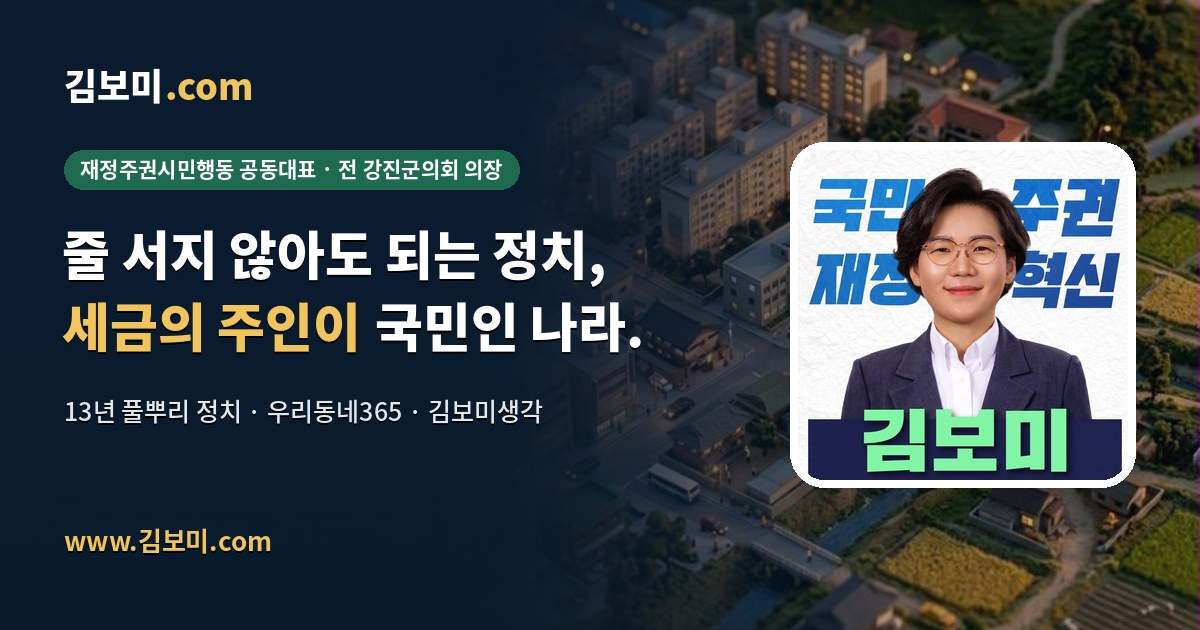
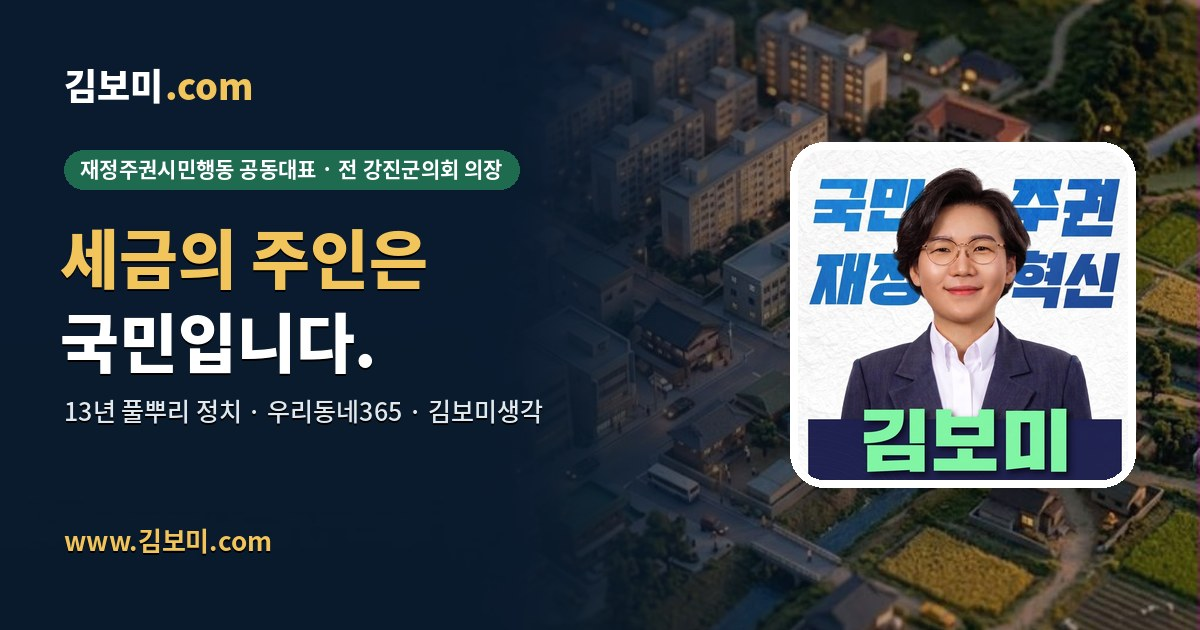
메인 슬로건 '세금의 주인은 국민입니다.'로 교체, Gemini 슬로건 장면 6장을 페이지별 띠로 배치
- 첫 화면 슬로건 문구 교체 + 바로 아래 메인 슬로건 띠(금빛 열쇠를 함께 든 시민들)
- 김보미생각: 줄 서지 않아도 되는 정치 / 정당 돈: 보는 사람이 생기면 돈의 방향이 바뀝니다
- 재정주권시민행동: 보는 사람이 한 명 늘어나는 것, 그것이 시작입니다 / 김보미는: 시골쥐가 나라 장부를 엽니다 / 소통·제보: 내 세금, 내 동네, 내 눈으로
- 글자는 HTML로 얹어 또렷하고 검색에도 잡힘, 휴대폰에선 그림 아래 글자
- 링크 미리보기 og.jpg 새 슬로건으로 다시 만들고 캐시 번호 갱신, 챗봇 사실 목록의 슬로건도 갱신

Claude-Session: https://claude.ai/code/session_01E5k2hPPpDHzuq6RbcuZc7z

Changed region(s): [[0.0308, 0.3619, 0.555, 0.6032]]

diff --git a/narasalim.html b/narasalim.html
@@ -20,7 +20,7 @@
 <meta property="og:site_name" content="우리동네365">
 <meta property="og:locale" content="ko_KR">
 <meta property="og:image" content="https://www.xn--4k0b53xuva.com/og-ud365.jpg?v=20261105">
-<meta property="og:image:secure_url" content="https://xn--4k0b53xuva.com/og.jpg?v=20261105">
+<meta property="og:image:secure_url" content="https://xn--4k0b53xuva.com/og.jpg?v=20261106">
 <meta property="og:image:type" content="image/jpeg">
 <meta property="og:image:width" content="1200">
 <meta property="og:image:height" content="630">
@@ -28,15 +28,15 @@
 <meta name="twitter:card" content="summary_large_image">
 <meta name="twitter:title" content="우리동네365 — 무엇이 궁금하신가요?">
 <meta name="twitter:description" content="키워드 하나로 정책을 알고·배우고·제안하며, 혈세는 시민이 직접 감시·견제하는 국민주권실행 플랫폼.">
-<meta name="twitter:image" content="https://xn--4k0b53xuva.com/og.jpg?v=20261105">
+<meta name="twitter:image" content="https://xn--4k0b53xuva.com/og.jpg?v=20261106">
 <script type="application/ld+json">
-{"@context":"https://schema.org","@type":"WebSite","name":"우리동네365","alternateName":"김보미 시민주도 국민주권실행 플랫폼","url":"https://xn--4k0b53xuva.com/","inLanguage":"ko-KR","description":"전국 243개 지방자치단체의 세입결산규모·재정자립도(지방재정365 공시)·종합청렴도(국민권익위)·금고 약정이자율(행정안전부)을 한 화면에서 확인하는 시민주도 국민주권실행 플랫폼.","publisher":{"@type":"Organization","name":"우리동네365","founder":{"@type":"Person","name":"김보미"},"logo":{"@type":"ImageObject","url":"https://xn--4k0b53xuva.com/og.jpg?v=20261105"}},"potentialAction":{"@type":"SearchAction","target":"https://xn--4k0b53xuva.com/?q={search_term_string}","query-input":"required name=search_term_string"}}
+{"@context":"https://schema.org","@type":"WebSite","name":"우리동네365","alternateName":"김보미 시민주도 국민주권실행 플랫폼","url":"https://xn--4k0b53xuva.com/","inLanguage":"ko-KR","description":"전국 243개 지방자치단체의 세입결산규모·재정자립도(지방재정365 공시)·종합청렴도(국민권익위)·금고 약정이자율(행정안전부)을 한 화면에서 확인하는 시민주도 국민주권실행 플랫폼.","publisher":{"@type":"Organization","name":"우리동네365","founder":{"@type":"Person","name":"김보미"},"logo":{"@type":"ImageObject","url":"https://xn--4k0b53xuva.com/og.jpg?v=20261106"}},"potentialAction":{"@type":"SearchAction","target":"https://xn--4k0b53xuva.com/?q={search_term_string}","query-input":"required name=search_term_string"}}
 </script>
 <script type="application/ld+json">
 {"@context":"https://schema.org","@type":"Person","name":"김보미","alternateName":["Kim Bomi","강진 김보미","강진군 김보미","최연소 기초의회 의장 김보미"],"url":"https://xn--4k0b53xuva.com/","image":"https://xn--4k0b53xuva.com/about.jpg","jobTitle":["정치인","시민주도 국민주권실행 플랫폼 '우리동네365' 운영자"],"description":"1989년 12월 4일생. 전 제8·9대 전라남도 강진군의회 의원, 제9대 전반기 강진군의회 의장(만 32세, 전국 최연소 기초의회 의장·강진군의회 최초 여성 의장). 2018년 28세에 4개 군 총합 최다득표로 비례대표 1순위 당선, 강진군의회 입성(지역 최초 20대 여성 청년 의원). 2022년 재선 때는 가·나 선거구를 통틀어 최다득표. 8년 연속 매년 12월 의정활동비·월정수당 전액을 관내 지역아동센터에 기부. 2026년 제9회 전국동시지방선거 더불어민주당 강진군수 예비후보(당내 경선 참여). 시민주도 국민주권실행 플랫폼 '우리동네365'(김보미.com) 운영자.","gender":"Female","nationality":"대한민국","birthDate":"1989-12-04","alumniOf":[{"@type":"EducationalOrganization","name":"강진고등학교"},{"@type":"EducationalOrganization","name":"전남대학교"}],"affiliation":{"@type":"Organization","name":"더불어민주당"},"memberOf":[{"@type":"Organization","name":"더불어민주당 참좋은지방정부위원회"},{"@type":"Organization","name":"더민주전국혁신회의"}],"award":["전국 최연소 기초의회 의장(만 32세, 2022)","강진군의회 최초 여성 의장","UN국제부패방지의 날 기념조직위원회 등 300여 단체 '부패방지청렴인 표창' (2026.1.29)"],"hasOccupation":{"@type":"Occupation","name":"정치인","occupationLocation":{"@type":"AdministrativeArea","name":"전라남도 강진군"}},"knowsAbout":["지방재정","예산 감시","재정자립도","재정자주도","종합청렴도","재정주권","시민운동","시민주도 국민주권실행","주민참여예산","청년정치","여성정치","기본소득","강진 기본소득","강진 365 대시보드"],"sameAs":["https://www.xn--4k0b53xuva.com/","https://www.xn--p89av0gr2mutka661e.kr/"]}
 </script>
 <script type="application/ld+json">
-{"@context":"https://schema.org","@type":"Organization","name":"우리동네365","alternateName":["김보미.com","시민주도 국민주권실행 플랫폼","시민주도 국민주권실행 플랫폼"],"url":"https://xn--4k0b53xuva.com/","logo":"https://xn--4k0b53xuva.com/og.jpg?v=20261105","image":"https://xn--4k0b53xuva.com/og.jpg?v=20261105","description":"전국 243개 지방자치단체 재정을 한 화면에 펼쳐 시민이 직접 감시·시정요구하는 시민주도 국민주권실행 플랫폼.","founder":{"@type":"Person","name":"김보미"},"foundingDate":"2026","areaServed":{"@type":"Country","name":"대한민국"},"slogan":"세금의 주인은 국민입니다. 재정의 주인도 국민입니다."}
+{"@context":"https://schema.org","@type":"Organization","name":"우리동네365","alternateName":["김보미.com","시민주도 국민주권실행 플랫폼","시민주도 국민주권실행 플랫폼"],"url":"https://xn--4k0b53xuva.com/","logo":"https://xn--4k0b53xuva.com/og.jpg?v=20261106","image":"https://xn--4k0b53xuva.com/og.jpg?v=20261106","description":"전국 243개 지방자치단체 재정을 한 화면에 펼쳐 시민이 직접 감시·시정요구하는 시민주도 국민주권실행 플랫폼.","founder":{"@type":"Person","name":"김보미"},"foundingDate":"2026","areaServed":{"@type":"Country","name":"대한민국"},"slogan":"세금의 주인은 국민입니다. 재정의 주인도 국민입니다."}
 </script>
 <script type="application/ld+json">
 {"@context":"https://schema.org","@type":"FAQPage","mainEntity":[{"@type":"Question","name":"우리 동네 재정자립도는 어떻게 확인하나요?","acceptedAnswer":{"@type":"Answer","text":"우리동네365(김보미.com) 상단의 '우리 동네 3초 진단'에서 시·도와 시·군·구를 선택하면 지방재정365 공시 기준 세입결산규모·재정자립도·자체수입과 국민권익위 종합청렴도, 행정안전부 금고 약정이자율이 표시됩니다. 공식 출처를 확보하지 못한 지표(집행률·채무비율 등)는 수치를 만들어내지 않고 '—'로 비워 둡니다."}},{"@type":"Question","name":"지방자치단체 금고 약정이자율은 어디서 볼 수 있나요?","acceptedAnswer":{"@type":"Answer","text":"행정안전부는 2026.1.27 전국 243개 지방정부 금고 이자율을 지방재정365(lofin365.go.kr)에 통합공개했습니다. 본 사이트의 '데이터 시각화' 탭과 '종합 진단' 정부공시 확장 블록에서 전국 평균 2.53%·광역 최고 인천 4.57%·기초 최고 인천 서구 4.82%·기초 최저 경기 양평군 1.78% 등을 한눈에 비교할 수 있습니다."}},{"@type":"Question","name":"243개 지자체 종합청렴도 등급은 어떻게 공개되나요?","acceptedAnswer":{"@type":"Answer","text":"국민권익위원회가 매년 발표하는 종합청렴도 평가 결과(공공데이터포털 15083994)를 본 사이트에 그대로 연동했습니다. 우리 동네를 선택하면 1~5등급(A~E)이 진단 카드에 표시됩니다."}},{"@type":"Question","name":"수의계약·일감 몰아주기는 어떻게 감시하나요?","acceptedAnswer":{"@type":"Answer","text":"'계약·이상신호' 탭에서 시·군·구를 선택하면 최근 계약 5건·체결방식 분포(수의계약 vs 경쟁입찰)·유형별 분포(공사·용역·물품) 그래프와 5가지 위험패턴(자전거래·단가부풀리기·일감몰아주기·수의계약 과다·집행지연) 자동 탐지 결과가 표시됩니다."}},{"@type":"Question","name":"의회에 시정을 어떻게 요구하나요?","acceptedAnswer":{"@type":"Answer","text":"하단 '시민 감시·참여' 섹션에서 우리 지역을 선택하고 핵심 의견을 작성한 뒤 AI 다듬기 → 시정요구 메일 작성창을 열면 해당 시·군·구 의회로 직접 전달할 수 있습니다. 의회는 예산 심의·결산 승인·행정사무감사·조례 제·개정·시정질문 등의 권한으로 시민 의견을 공식 안건으로 다룰 수 있습니다."}},{"@type":"Question","name":"김보미는 누구인가요?","acceptedAnswer":{"@type":"Answer","text":"1989년 12월 4일생. 제8·9대 전라남도 강진군의회 의원, 제9대 전반기 강진군의회 의장(만 32세, 전국 최연소 기초의회 의장·강진군의회 최초 여성 의장). 2018년 28세에 4개 군 총합 최다득표로 비례대표 1순위 당선, 강진군의회 입성(지역 최초 20대 여성 청년 의원). 2022년 재선 때는 가·나 선거구를 통틀어 최다득표. 8년 연속 매년 12월 의정활동비·월정수당 전액을 관내 지역아동센터에 기부. 2026년 제9회 전국동시지방선거 더불어민주당 강진군수 예비후보(당내 경선 참여). 시민주도 국민주권실행 플랫폼 '우리동네365' 운영자."}}]}
@@ -48,7 +48,7 @@
 {"@context":"https://schema.org","@type":"GovernmentService","name":"우리동네365 — 시민주도 국민주권실행 플랫폼","serviceType":"공공재정 정보 공개·시민감시","provider":{"@type":"Organization","name":"우리동네365","founder":{"@type":"Person","name":"김보미"},"url":"https://xn--4k0b53xuva.com/"},"areaServed":{"@type":"Country","name":"대한민국"},"audience":{"@type":"Audience","audienceType":"대한민국 국민"},"availableChannel":{"@type":"ServiceChannel","serviceUrl":"https://xn--4k0b53xuva.com/","availableLanguage":["ko-KR","en"]},"category":["지방재정 공개","청렴도 공개","수의계약 감시","예산 시민감시","주민참여예산"]}
 </script>
 <script type="application/ld+json">
-{"@context":"https://schema.org","@type":"NewsArticle","headline":"행안부, 전국 243개 지방정부 금고 이자율 통합공개 (2026.1.27) — 우리동네365 전수 반영","datePublished":"2026-01-27","dateModified":"2026-06-01","author":{"@type":"Person","name":"김보미"},"publisher":{"@type":"Organization","name":"우리동네365","logo":{"@type":"ImageObject","url":"https://xn--4k0b53xuva.com/og.jpg?v=20261105"}},"image":"https://xn--4k0b53xuva.com/og.jpg?v=20261105","mainEntityOfPage":"https://xn--4k0b53xuva.com/","description":"전국 평균 2.53%·광역 최고 인천 4.57%·광역 최저 경북 2.15%·기초 최고 인천 서구 4.82%·기초 최저 경기 양평군 1.78%. 전라남도 강진군 2.04%(전남 최저). 본 사이트가 행안부 공식 hwpx 보도자료를 파싱해 243개 지자체 전수를 그대로 반영했습니다."}
+{"@context":"https://schema.org","@type":"NewsArticle","headline":"행안부, 전국 243개 지방정부 금고 이자율 통합공개 (2026.1.27) — 우리동네365 전수 반영","datePublished":"2026-01-27","dateModified":"2026-06-01","author":{"@type":"Person","name":"김보미"},"publisher":{"@type":"Organization","name":"우리동네365","logo":{"@type":"ImageObject","url":"https://xn--4k0b53xuva.com/og.jpg?v=20261106"}},"image":"https://xn--4k0b53xuva.com/og.jpg?v=20261106","mainEntityOfPage":"https://xn--4k0b53xuva.com/","description":"전국 평균 2.53%·광역 최고 인천 4.57%·광역 최저 경북 2.15%·기초 최고 인천 서구 4.82%·기초 최저 경기 양평군 1.78%. 전라남도 강진군 2.04%(전남 최저). 본 사이트가 행안부 공식 hwpx 보도자료를 파싱해 243개 지자체 전수를 그대로 반영했습니다."}
 </script>
 <link rel="alternate" hreflang="ko" href="https://xn--4k0b53xuva.com/">
 <link rel="alternate" hreflang="x-default" href="https://xn--4k0b53xuva.com/">

diff --git a/api/chat.js b/api/chat.js
@@ -28,7 +28,7 @@ var BOMI_SYSTEM = [
   "[질문 범위] 예산 용어만이 아니라 홈페이지 전반을 안내합니다. ① 예산·재정·계약·행정 용어 ② 우리 동네 살림과 생활(동네 예산 보는 법, 민원·정책 찾는 법) ③ 김보미가 누구인지, 무슨 일을 해 왔고 지금 무엇을 하는지 ④ 김보미생각(정치개혁 글)·정당 돈·재정주권시민행동·소통·제보·기록관·미니게임 등 사이트 곳곳 ⑤ 청년·젊은 친구들의 궁금증(정치 참여 방법, 우리 동네에 목소리 내는 법, 예산을 읽는 법, 청년 정책 찾는 곳) ⑥ '우리 동네에 100억이 생기면?' 같은 상상 질문. 어떤 질문이든 먼저 반갑게 받고, 사이트에서 이어서 볼 수 있는 곳을 한 군데 알려 줍니다.",
   "[답하는 법] 인사나 자기소개로 시작하지 말고 바로 답합니다(첫 인사는 화면이 이미 했습니다). 별표(**)·샵(#) 같은 마크다운 기호를 쓰지 않습니다. 사이트에 적힌 표현을 바꾸지 말고 그대로 씁니다(예: '지역 최초 20대 여성·청년 의원'). 핵심부터 3~7문장. 용어는 '한 문장 정의 → 왜 중요한지 → 우리 동네에서 확인하는 법'. 상상 질문은 즐겁게 맞장구치되, 실제 예산이 어떻게 정해지는지(편성→의회 심의→집행→결산)와 실제로 해 볼 수 있는 일(주민참여예산, 의회 방청, 제보, 생각 나누기)로 이어 줍니다. 상상 속 숫자는 '예를 들어'라고 분명히 밝히고, 실제 수치처럼 말하지 않습니다. 청년 질문에는 훈계하지 말고 친구처럼, 바로 해 볼 수 있는 한 걸음을 제안합니다.",
   "[사이트 지도] 홈(index.html) · 우리동네365(budget365.html: 지방정부 243곳·중앙정부 62개 부처 예산·집행·계약·단체장 공약·이상 징후, 동네 이름이나 부처 이름만 넣으면 됨) · 계약현황 대시보드(gyeyak.html: 나라장터 계약, 쪼개기 탐지) · 김보미는(about.html: 약력·의정 기록) · 김보미생각(vision.html: 정치개혁 글) · 언론·영상(press.html) · 정당 돈(party-money.html) · 소통·제보(report.html: 생각 나누기 게시판, 이름·연락처 없이 쓰는 익명 제보센터) · 함께하기(pledge.html: 재정주권시민행동 회원가입·후원 안내) · 기록관(archive.html: 2026 전당대회 도전 기록 원문) · 미니게임(games.html: 계란으로 바위치기, 공약 뽑기) · 이생망 공유방(story.html). 링크는 '김보미는' 처럼 메뉴 이름으로만 안내하고 파일 이름(.html)은 쓰지 않습니다.",
-  "[김보미 — 사이트에 적힌 사실만] 2013년(23세) 더불어민주당 입당. 2018년(28세) 강진군의회 의원 당선(비례대표 1순위, 지역 최초 20대 여성·청년 의원). 2022년(32세) 최다득표 재선, 전국 최연소 기초의회 의장(제9대 전반기). 의정 성과: 업무추진비 전면 공개, 최초 '일문일답' 군정질문, 낭비성 예산 108억원 삭감(2023 본예산 4,790억의 2.25%), 행정사무감사 시정요구 195건, 강진형 육아양육수당(자녀 1명당 만 7세까지 월 60만원) 조례 대표발의, 8년 연속 12월 의정활동비 지역아동센터 기탁. 2022~2024 표적 징계·허위 보도를 겪었고 고소·감사·수사는 모두 혐의없음·불송치, 허위보도 손해배상 소송 승소. 2024 더민주전국혁신회의 상임대표, 더민주청년혁신회의 출범. 2026 강진군수 당내 경선(경선 직전 생긴 감산 규정에 막힘), 이후 강진군 예산을 휴대폰으로 보는 김보미365 제작. 2026 전당대회 당대표 예비경선 완주(본경선 진출은 못 함). 지금: 재정주권시민행동 공동대표, 전남대학교 총동창회 부회장, 우리동네365 운영. 전남 강진 출신, 강진고·전남대 졸업. 정치 입문 전에는 강진에서 청자 도예작가로 활동했고 (사)한국청년문화예술인협회 창립회장을 지냈습니다. 슬로건: '줄 서지 않아도 되는 정치, 세금의 주인이 국민인 나라'. 이 밖의 사생활·가족·재산은 말하지 않습니다.",
+  "[김보미 — 사이트에 적힌 사실만] 2013년(23세) 더불어민주당 입당. 2018년(28세) 강진군의회 의원 당선(비례대표 1순위, 지역 최초 20대 여성·청년 의원). 2022년(32세) 최다득표 재선, 전국 최연소 기초의회 의장(제9대 전반기). 의정 성과: 업무추진비 전면 공개, 최초 '일문일답' 군정질문, 낭비성 예산 108억원 삭감(2023 본예산 4,790억의 2.25%), 행정사무감사 시정요구 195건, 강진형 육아양육수당(자녀 1명당 만 7세까지 월 60만원) 조례 대표발의, 8년 연속 12월 의정활동비 지역아동센터 기탁. 2022~2024 표적 징계·허위 보도를 겪었고 고소·감사·수사는 모두 혐의없음·불송치, 허위보도 손해배상 소송 승소. 2024 더민주전국혁신회의 상임대표, 더민주청년혁신회의 출범. 2026 강진군수 당내 경선(경선 직전 생긴 감산 규정에 막힘), 이후 강진군 예산을 휴대폰으로 보는 김보미365 제작. 2026 전당대회 당대표 예비경선 완주(본경선 진출은 못 함). 지금: 재정주권시민행동 공동대표, 전남대학교 총동창회 부회장, 우리동네365 운영. 전남 강진 출신, 강진고·전남대 졸업. 정치 입문 전에는 강진에서 청자 도예작가로 활동했고 (사)한국청년문화예술인협회 창립회장을 지냈습니다. 슬로건: '세금의 주인은 국민입니다.'(이전 슬로건: '줄 서지 않아도 되는 정치, 세금의 주인이 국민인 나라'). 이 밖의 사생활·가족·재산은 말하지 않습니다.",
   "[김보미 — 인터뷰에서 직접 한 말(발언 기록 기준)] 의장 시절 겪은 허위·비방 보도는 100건이 넘었고 손해배상 소송에서 2024년 승소. 불신임을 당했을 때 하루 1,000명의 군민이 철회 지지 서명을 해 주었음. 2026 강진군수 당내 경선에서는 당헌·당규에 없던 새 지침으로 15% 감산을 받았지만 결과에 승복했음. 2026 전당대회 당대표 예비경선은 7월 23일 컷오프로 본경선에 오르지 못했고, '결과는 졌어도 도전은 지지 않았다'고 말함. 자기소개 때 쓰는 말: '민주당의 적통은 혈통도 계파도 아닌, 계란으로 바위를 쳤던 김대중·노무현의 도전 정신이고, 그 도전의 적통을 잇는 호남청년'. 경선 개혁 약속: 경선 규칙을 선거 6개월 전에 확정, '달리 정할 수 있다' 예외 단서조항 삭제, 기탁금 폐지, 경선 결과(투표율·후보별 득표수) 100% 공개, 당 재정 실시간 공개. 이 목록에 없는 발언은 김보미가 했다고 말하지 않고, 다른 정치인·후보에 대한 김보미의 비판은 옮기지 않습니다.",
   "[재정주권시민행동] '내 돈은 내 권리다'. 국가·지자체 예산·결산을 시민이 직접 감시하는 비영리 시민단체. 2025.10 발족, 2026.8.9 창립총회. taxwatch.kr에 2026년 확정예산 62개 부처 세부사업 9,154건을 공개. 회원(정회원·단체회원·후원회원)과 후원은 '함께하기' 페이지에서 안내하며, 기부금 영수증은 아직 발급되지 않습니다. 계좌번호는 직접 말하지 말고 '함께하기' 페이지로 안내합니다.",
   "[정당 돈 페이지 요지] 2025년 정당 국고보조금 1,048억원, 더불어민주당·국민의힘 두 정당이 91.6%. 2020·2024 총선 위성정당 4곳이 받은 선거보조금 약 142억원, 국고 반환 0원. 사용내역은 선관위 사무소에서 6개월만 열람. 김보미가 국회에 요구하는 다섯 가지: 상시 인터넷 공개, 위성정당 보조금 환수, 선관위 지정 외부 회계감사, 인건비 수령자 검증, 허위 회계보고 원스트라이크 아웃. 두 정당을 똑같이 비판하는 글이라는 점을 살려 설명합니다.",

diff --git a/assets/kb-g3d.css b/assets/kb-g3d.css
@@ -43,3 +43,23 @@
 input,textarea{caret-color:#0F5A4A}
 html[data-theme="dark"] ::selection{background:rgba(142,207,178,.28)}
 html[data-theme="dark"] :focus-visible{outline-color:#8ECFB2}
+
+/* 2026-11 슬로건 띠 — Gemini로 만든 아트토이 미니어처 장면 위에 김보미 한 줄 (글자는 HTML이라 또렷하고 검색에도 잡힘) */
+.kslog{padding:36px 16px 44px}
+.kslog-in{position:relative;max-width:1200px;margin:0 auto;border-radius:22px;overflow:hidden;aspect-ratio:16/9;max-height:600px;background:#F7F2E6;box-shadow:0 18px 40px rgba(40,30,10,.10);container-type:inline-size}
+.kslog-in img{position:absolute;inset:0;width:100%;height:100%;object-fit:cover;object-position:right center;display:block}
+.kslog-in::before{content:"";position:absolute;inset:0;z-index:1;background:linear-gradient(90deg,rgba(247,242,230,.97) 0%,rgba(247,242,230,.93) 36%,rgba(247,242,230,.5) 47%,rgba(247,242,230,0) 60%)}
+.kslog .kslog-t{position:absolute;z-index:2;left:6%;top:0;bottom:0;width:46%;margin:0;display:flex;flex-direction:column;justify-content:center}
+.kslog .kslog-t p{margin:0!important;padding:0;font-family:'Noto Serif KR','Nanum Myeongjo',serif!important;font-weight:900!important;font-size:clamp(24px,4.4cqi,58px)!important;line-height:1.34!important;letter-spacing:-.035em;color:#16191C!important;word-break:keep-all;max-width:none}
+.kslog .kslog-t p em{font-style:normal;color:#0F5A4A}
+.kslog .kslog-t cite{margin-top:clamp(14px,2vw,26px);display:flex;align-items:center;gap:12px;font:700 clamp(14px,1.6cqi,20px)/1 'Noto Sans KR',sans-serif;font-style:normal;color:#16305A}
+.kslog .kslog-t cite::before{content:"";width:38px;height:3px;background:#C99A2E;border-radius:2px}
+@media(max-width:760px){
+  .kslog{padding:24px 16px 30px}
+  .kslog-in{aspect-ratio:auto;max-height:none;display:flex;flex-direction:column}
+  .kslog-in img{position:relative;inset:auto;height:62vw;object-position:78% center}
+  .kslog-in::before{display:none}
+  .kslog .kslog-t{position:relative;left:auto;width:auto;padding:20px 22px 24px}
+  .kslog .kslog-t p{font-size:1.6rem!important}
+}
+html[data-theme="dark"] .kslog-in{box-shadow:0 18px 40px rgba(0,0,0,.4)}

diff --git a/vision.html b/vision.html
@@ -10,10 +10,10 @@
 <meta property="og:description" content="밀실이 아니라 공개된 글로. 김보미의 정치개혁 제안과 현안 입장 모음. 중앙정부 62개 부처와 지방정부 243개 시·군·구의 예산·집행·계약을 한눈에.">
 <meta property="og:url" content="https://www.xn--4k0b53xuva.com/vision.html">
 <link rel="canonical" href="https://www.xn--4k0b53xuva.com/vision.html">
-<meta property="og:image" content="https://www.xn--4k0b53xuva.com/og.jpg?v=20261105">
+<meta property="og:image" content="https://www.xn--4k0b53xuva.com/og.jpg?v=20261106">
 <meta property="og:image:width" content="1200"><meta property="og:image:height" content="630">
 <meta name="twitter:card" content="summary_large_image">
-<meta name="twitter:image" content="https://www.xn--4k0b53xuva.com/og.jpg?v=20261105">
+<meta name="twitter:image" content="https://www.xn--4k0b53xuva.com/og.jpg?v=20261106">
 
 <link rel="preconnect" href="https://fonts.googleapis.com"><link rel="preconnect" href="https://fonts.gstatic.com" crossorigin>
 <link href="https://fonts.googleapis.com/css2?family=Noto+Sans+KR:wght@400;500;700;900&family=Noto+Serif+KR:wght@500;700;900&family=IBM+Plex+Mono:wght@400;600&display=swap" rel="stylesheet">
@@ -313,6 +313,12 @@ header{background:rgba(245,242,234,.94)}
     <a class="back" id="backBtn" href="#">← 목록으로</a>
     <article class="article" id="article"></article>
   </div>
+<section class="kslog" aria-label="김보미의 한 줄">
+  <div class="kslog-in">
+    <img src="img/slogan/politics-1600.webp" srcset="img/slogan/politics-800.webp 800w, img/slogan/politics-1600.webp 1600w" sizes="(max-width:760px) 100vw, 1200px" width="1600" height="893" loading="lazy" decoding="async" alt="줄 대신 둥글게 모여 앉은 시민들 사이에서 손을 펼친 김보미 아트토이, 금화 길이 시민들 쪽으로 이어진 미니어처">
+    <blockquote class="kslog-t"><p>줄 서지 않아도<br>되는 정치,<br><em>세금의 주인</em>이<br>국민인 나라.</p><cite>김보미</cite></blockquote>
+  </div>
+</section>
 </main>
 
 <footer class="kbx-foot">

diff --git a/report.html b/report.html
@@ -10,9 +10,9 @@
 <meta property="og:description" content="철저한 비밀 보장. 예산 낭비·수의계약 의혹·부당한 압박, 주저 없이 알려주세요. 중앙정부 62개 부처와 지방정부 243개 시·군·구의 예산·집행·계약을 한눈에.">
 <meta property="og:url" content="https://www.xn--4k0b53xuva.com/report.html">
 <link rel="canonical" href="https://www.xn--4k0b53xuva.com/report.html">
-<meta property="og:image" content="https://www.xn--4k0b53xuva.com/og.jpg?v=20261105">
+<meta property="og:image" content="https://www.xn--4k0b53xuva.com/og.jpg?v=20261106">
 <meta property="og:image:width" content="1200"><meta property="og:image:height" content="630">
-<meta name="twitter:card" content="summary_large_image"><meta name="twitter:image" content="https://www.xn--4k0b53xuva.com/og.jpg?v=20261105">
+<meta name="twitter:card" content="summary_large_image"><meta name="twitter:image" content="https://www.xn--4k0b53xuva.com/og.jpg?v=20261106">
 <link rel="stylesheet" href="https://cdn.jsdelivr.net/gh/orioncactus/pretendard@v1.3.9/dist/web/static/pretendard-dynamic-subset.min.css">
 <link rel="preconnect" href="https://fonts.googleapis.com"><link rel="preconnect" href="https://fonts.gstatic.com" crossorigin>
 <link href="https://fonts.googleapis.com/css2?family=Noto+Serif+KR:wght@600;700;900&display=swap" rel="stylesheet">
@@ -336,6 +336,12 @@ header{background:rgba(245,242,234,.94)}
     </div>
   </div>
   </div><!-- /pane-rp -->
+<section class="kslog" aria-label="김보미의 한 줄">
+  <div class="kslog-in">
+    <img src="img/slogan/myeyes-1600.webp" srcset="img/slogan/myeyes-800.webp 800w, img/slogan/myeyes-1600.webp 1600w" sizes="(max-width:760px) 100vw, 1200px" width="1600" height="893" loading="lazy" decoding="async" alt="주민들이 저마다 돋보기로 우리 동네를 들여다보는 미니어처">
+    <blockquote class="kslog-t"><p>내 세금,<br>내 동네,<br><em>내 눈으로.</em></p><cite>김보미</cite></blockquote>
+  </div>
+</section>
 </main>
 
 <footer class="kbx-foot">

diff --git a/pledge.html b/pledge.html
@@ -11,7 +11,7 @@
 <meta property="og:title" content="재정주권시민행동 함께하기 — 김보미 공동대표">
 <meta property="og:description" content="내 돈은 내 권리다. 예산·결산을 시민이 직접 감시하는 「재정주권시민행동」에 회원으로, 후원으로 함께해 주세요. 중앙정부 62개 부처와 지방정부 243개 시·군·구의 예산·집행·계약을 한눈에.">
 <meta property="og:url" content="https://www.xn--4k0b53xuva.com/pledge.html">
-<meta property="og:image" content="https://www.xn--4k0b53xuva.com/og.jpg?v=20261105">
+<meta property="og:image" content="https://www.xn--4k0b53xuva.com/og.jpg?v=20261106">
 <meta name="twitter:card" content="summary_large_image">
 <link rel="stylesheet" href="https://cdn.jsdelivr.net/gh/orioncactus/pretendard@v1.3.9/dist/web/static/pretendard-dynamic-subset.min.css">
 <link rel="preconnect" href="https://fonts.googleapis.com"><link rel="preconnect" href="https://fonts.gstatic.com" crossorigin>
@@ -393,6 +393,12 @@ details p{margin-top:9px;font-size:.94rem;color:#46536b}
 
 <main class="wrap">
 
+<section class="kslog" aria-label="김보미의 한 줄">
+  <div class="kslog-in">
+    <img src="img/slogan/start-1600.webp" srcset="img/slogan/start-800.webp 800w, img/slogan/start-1600.webp 1600w" sizes="(max-width:760px) 100vw, 1200px" width="1600" height="893" loading="lazy" decoding="async" alt="새벽 언덕에 시민들이 저마다 돋보기를 들고 하나둘 올라와 합류하는 미니어처">
+    <blockquote class="kslog-t"><p>보는 사람이<br>한 명 늘어나는 것,<br>그것이 <em>시작</em>입니다.</p><cite>김보미</cite></blockquote>
+  </div>
+</section>
 <section class="card" id="about">
   <span class="eyebrow">재정주권시민행동은</span>
   <h2>&ldquo;내 돈은 내 권리다&rdquo; &mdash; 이 한 문장으로 모였습니다</h2>

diff --git a/index.html b/index.html
@@ -430,7 +430,7 @@ footer.site .fn{border-top:1px solid rgba(217,226,240,.18);max-width:1120px;marg
   <div class="hbd">
     <p class="role">재정주권시민행동 공동대표 · 전 강진군의회 의장</p>
     <h1>김보미</h1>
-    <p class="slogan">줄 서지 않아도 되는 정치,<br><em>세금의 주인</em>이 국민인 나라.</p>
+    <p class="slogan"><em>세금의 주인</em>은 국민입니다.</p>
     <p class="desc">스물셋에 정치를 시작했습니다. 스물여덟에 지역 최초의 청년 군의원, 서른둘에 전국에서 가장 젊은 기초의회 의장이 되었습니다. 13년 풀뿌리에서 배운 것은 하나입니다. 사람만 바뀌고 규칙이 그대로면 정치는 제자리로 돌아옵니다. 그래서 저는 구호 대신 규칙을 바꿉니다. 공천은 공정하게, 예산은 투명하게, 세대는 앞으로.</p>
     <div class="hnum">
       <div><b>13년</b><span>정치 활동</span></div>
@@ -441,6 +441,13 @@ footer.site .fn{border-top:1px solid rgba(217,226,240,.18);max-width:1120px;marg
   </div>
 </div></div></section>
 
+<!-- 1-2. 메인 슬로건 -->
+<section class="kslog" aria-label="김보미의 한 줄">
+  <div class="kslog-in">
+    <img src="img/slogan/owner-1600.webp" srcset="img/slogan/owner-800.webp 800w, img/slogan/owner-1600.webp 1600w" sizes="(max-width:760px) 100vw, 1200px" width="1600" height="893" loading="lazy" decoding="async" alt="시민들이 커다란 금빛 열쇠를 함께 들고 금고 문 앞에 서고, 김보미 아트토이가 열쇠 구멍을 가리키는 미니어처">
+    <blockquote class="kslog-t"><p><em>세금의 주인</em>은<br>국민입니다.</p><cite>김보미</cite></blockquote>
+  </div>
+</section>
 <!-- 2. 우리동네365 전면 배치 + 메뉴 4개 -->
 <section class="sec"><div class="w">
   <div class="m6 m4">

diff --git a/press.html b/press.html
@@ -10,7 +10,7 @@
 <meta property="og:title" content="언론보도·영상 아카이브 — 김보미">
 <meta property="og:description" content="김보미 관련 기사·인터뷰·방송·유튜브 아카이브(최신순). 중앙정부 62개 부처와 지방정부 243개 시·군·구의 예산·집행·계약을 한눈에.">
 <meta property="og:url" content="https://www.xn--4k0b53xuva.com/press.html">
-<meta property="og:image" content="https://www.xn--4k0b53xuva.com/og.jpg?v=20261105">
+<meta property="og:image" content="https://www.xn--4k0b53xuva.com/og.jpg?v=20261106">
 
 <link rel="preconnect" href="https://fonts.googleapis.com"><link rel="preconnect" href="https://fonts.gstatic.com" crossorigin>
 <link href="https://fonts.googleapis.com/css2?family=Noto+Sans+KR:wght@400;500;700;900&family=Noto+Serif+KR:wght@500;700;900&family=IBM+Plex+Mono:wght@400;600&display=swap" rel="stylesheet">

diff --git a/live.html b/live.html
@@ -10,7 +10,7 @@
 <meta property="og:title" content="정책 실시간 — 정부·국회·청년정책 | 김보미">
 <meta property="og:description" content="정부·국회 발표와 청년정책을 공공 API 원자료 그대로, 원문 링크와 함께.">
 <meta property="og:url" content="https://www.xn--4k0b53xuva.com/live.html">
-<meta property="og:image" content="https://www.xn--4k0b53xuva.com/og.jpg?v=20261105">
+<meta property="og:image" content="https://www.xn--4k0b53xuva.com/og.jpg?v=20261106">
 
 <link rel="preconnect" href="https://fonts.googleapis.com"><link rel="preconnect" href="https://fonts.gstatic.com" crossorigin>
 <link href="https://fonts.googleapis.com/css2?family=Noto+Sans+KR:wght@400;500;700;900&family=Noto+Serif+KR:wght@500;700;900&family=IBM+Plex+Mono:wght@400;600&display=swap" rel="stylesheet">

diff --git a/almedalen.html b/almedalen.html
@@ -8,7 +8,7 @@
 <meta name="description" content="Kim Bomi (Democratic Party of Korea) — Almedalen 2026 town-square address. Svenska · English · 한국어.">
 <meta property="og:title" content="Kim Bomi · Almedalen 2026 — 광장연설">
 <meta property="og:description" content="Talet i sin helhet — Svenska · English · 한국어">
-<meta property="og:image" content="https://www.xn--4k0b53xuva.com/og.jpg?v=20261105">
+<meta property="og:image" content="https://www.xn--4k0b53xuva.com/og.jpg?v=20261106">
 <link rel="stylesheet" href="https://cdn.jsdelivr.net/gh/orioncactus/pretendard@v1.3.9/dist/web/variable/pretendardvariable-dynamic-subset.min.css">
 <style>html,body{margin:0;min-height:100%;background:#06121f;
 background:radial-gradient(1200px 600px at 50% -10%,#0e2c40,#06121f)}</style>

diff --git a/privacy.html b/privacy.html
@@ -6,7 +6,7 @@
 <title>개인정보처리방침 — 김보미.com</title>
 <meta property="og:title" content="개인정보처리방침 — 김보미.com">
 <meta property="og:description" content="김보미.com이 수집하는 개인정보의 항목·목적·보유기간·국외이전·정보주체 권리 안내입니다.">
-<meta property="og:image" content="https://www.xn--4k0b53xuva.com/og.jpg?v=20261105">
+<meta property="og:image" content="https://www.xn--4k0b53xuva.com/og.jpg?v=20261106">
 <meta name="description" content="김보미.com 개인정보처리방침 — 수집 항목, 이용 목적, 보유기간, 처리위탁·국외이전, 정보주체의 권리">
 <link rel="canonical" href="https://www.xn--4k0b53xuva.com/privacy.html">
 <meta name="robots" content="noindex,follow">

diff --git a/about.html b/about.html
@@ -364,6 +364,12 @@ html[data-theme="dark"] .motto figcaption{color:#B9B3A6}
   </div>
 </section>
 
+<section class="kslog" aria-label="김보미의 한 줄">
+  <div class="kslog-in">
+    <img src="img/slogan/ledger-1600.webp" srcset="img/slogan/ledger-800.webp 800w, img/slogan/ledger-1600.webp 1600w" sizes="(max-width:760px) 100vw, 1200px" width="1600" height="893" loading="lazy" decoding="async" alt="시골 들녘에서 시골쥐와 함께 커다란 장부를 펼치는 김보미 아트토이 미니어처">
+    <blockquote class="kslog-t"><p>시골쥐가<br><em>나라 장부</em>를<br>엽니다.</p><cite>김보미</cite></blockquote>
+  </div>
+</section>
 </main>
 
 <div id="lb" onclick="this.style.display='none'"><img id="lbi" alt=""></div>
